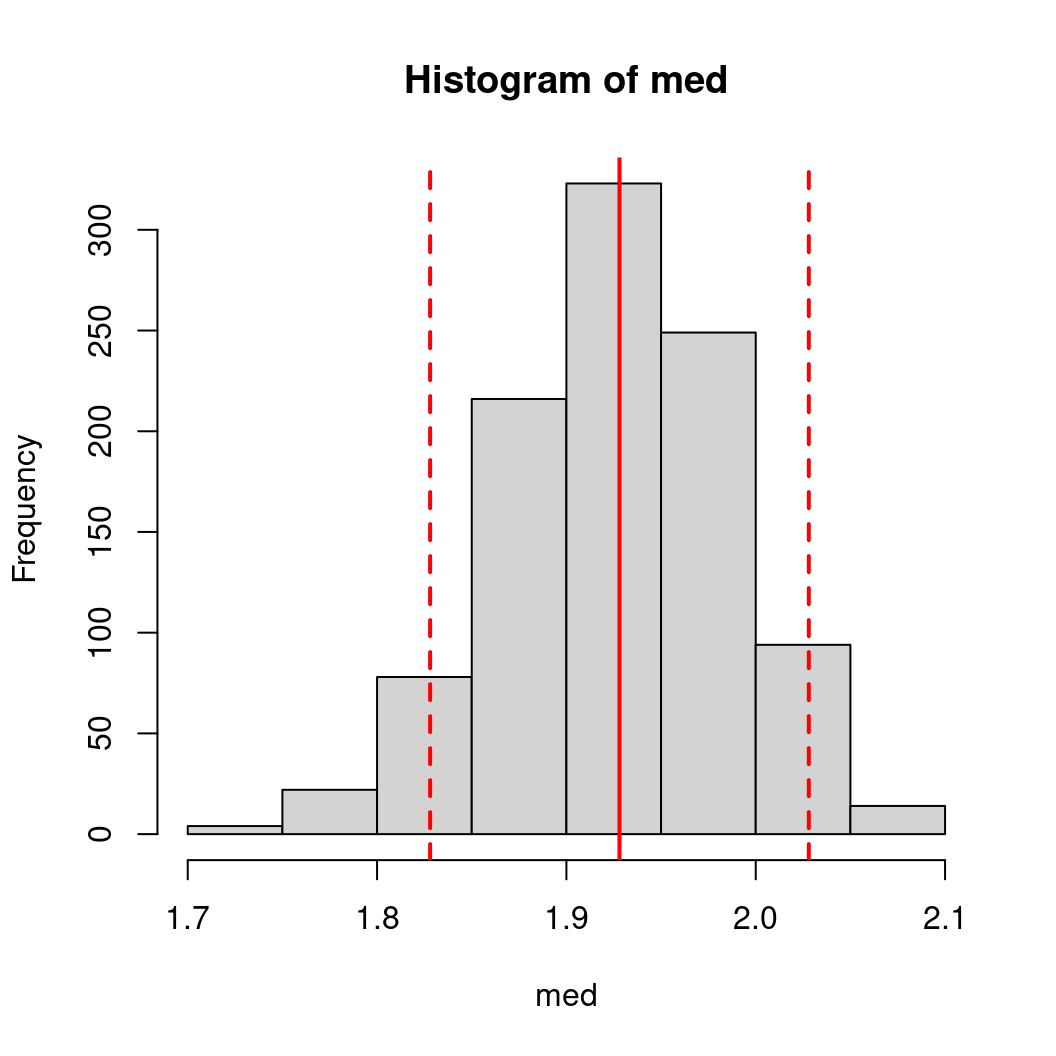
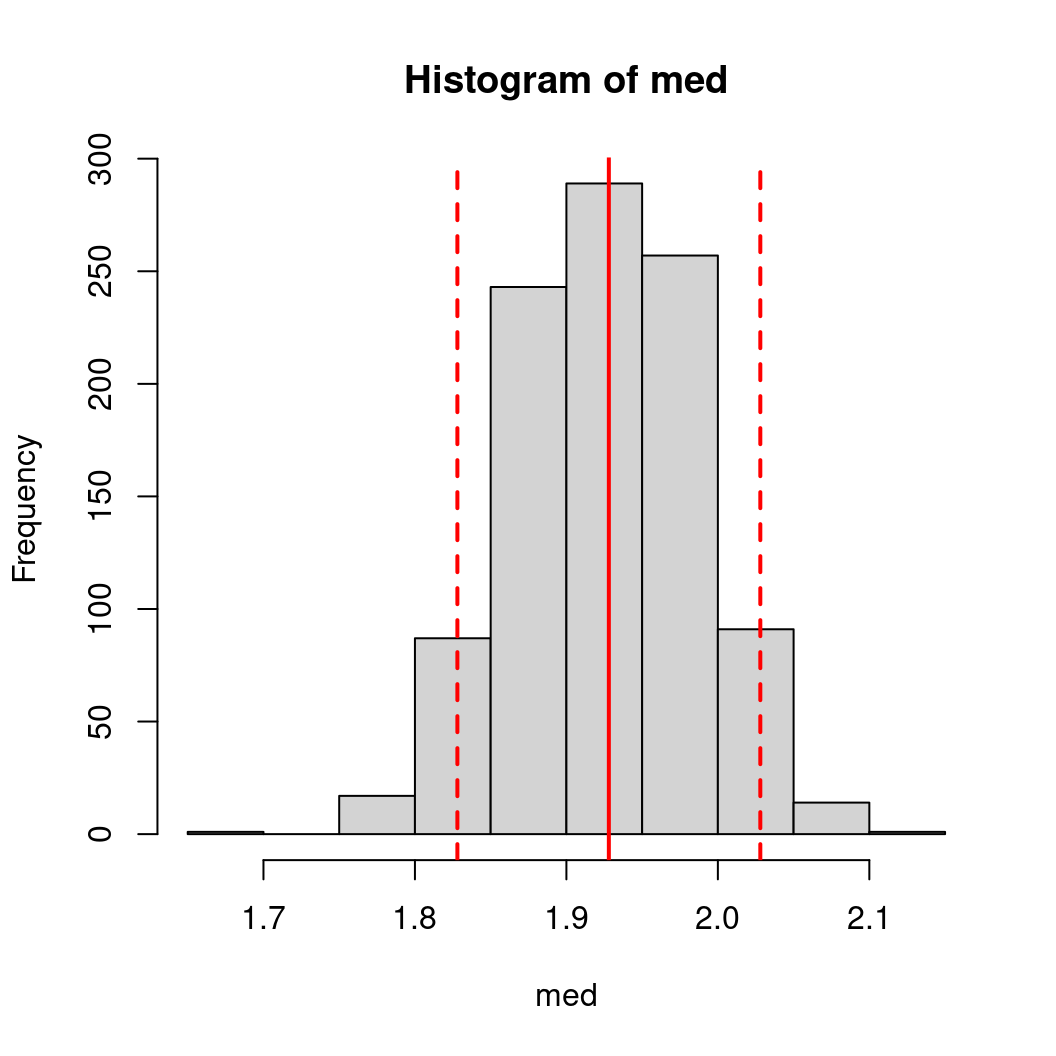
v060.1
correções

diff --git a/U4_inferencia/inferencia.html b/U4_inferencia/inferencia.html
@@ -726,7 +726,7 @@ Agora, derivando <span class="math inline">\(F_Y(y)\)</span>, obtemos
 <p><img data-src="inferencia_files/figure-revealjs/unnamed-chunk-1-1.png" width="528"></p>
 </div>
 <div class="cell-output cell-output-stdout">
-<pre><code>P[Med. Amost. ∈ (Med. Pop. ± 0.1)] ≈ 0.894</code></pre>
+<pre><code>P[Med. Amost. ∈ (Med. Pop. ± 0.1)] ≈ 0.908</code></pre>
 </div>
 </div>
 </div>
@@ -768,7 +768,7 @@ Agora, derivando <span class="math inline">\(F_Y(y)\)</span>, obtemos
 <p><img data-src="inferencia_files/figure-revealjs/unnamed-chunk-2-1.png" width="528"></p>
 </div>
 <div class="cell-output cell-output-stdout">
-<pre><code>P[Med. Amost. ∈ (Med. Pop. ± 0.1)] ≈ 0.983</code></pre>
+<pre><code>P[Med. Amost. ∈ (Med. Pop. ± 0.1)] ≈ 0.979</code></pre>
 </div>
 </div>
 </div>
@@ -1220,7 +1220,7 @@ Temos que
 <table>
 <tbody><tr style="border-bottom:none;text-align:center;">
 <td>
-<span class="math inline">\(E(\hat{\mu}_1) = E[\frac{n-1}{n}\bar{X}_{n-1} + \frac{1}{n}X_n] = \frac{n-1}{n}E(\bar{X}_{n-1}) + \frac{1}{n}E(X_n) = \frac{n-1}{n}\mu + \frac{1}{n}\mu = \mu.\)</span>
+<span class="math inline">\(E(\hat{\mu}_1) = E\left[\frac{n-1}{n}\bar{X}_{n-1} + \frac{1}{n}X_n\right] = \frac{n-1}{n}E(\bar{X}_{n-1}) + \frac{1}{n}E(X_n) = \frac{n-1}{n}\mu + \frac{1}{n}\mu = \mu.\)</span>
 </td>
 </tr>
 
@@ -1232,7 +1232,7 @@ Temos que
 <table>
 <tbody><tr style="border-bottom:none;text-align:center;">
 <td>
-<span class="math inline">\(E(\hat{\mu}_2) = E[\frac{\bar{X}_{n-1} + X_n}{2}] = \frac{E(\bar{X}_{n-1}) + E(X_n)}{2} = \frac{\mu + \mu}{2} = \mu.\)</span>
+<span class="math inline">\(E(\hat{\mu}_2) = E\left[\frac{\bar{X}_{n-1} + X_n}{2}\right] = \frac{E(\bar{X}_{n-1}) + E(X_n)}{2} = \frac{\mu + \mu}{2} = \mu.\)</span>
 </td>
 </tr>
 
@@ -1330,7 +1330,7 @@ Temos que
 <div class="callout callout-caution no-icon callout-titled callout-style-default">
 <div class="callout-body">
 <div class="callout-title">
-<p><strong>Observação</strong></p>
+<p><strong>Observações</strong></p>
 </div>
 <div class="callout-content">
 <ul>
@@ -1341,6 +1341,7 @@ Temos que
 </div>
 </div>
 </div>
+<div class="fragment">
 <div class="callout callout-note no-icon callout-titled callout-style-default">
 <div class="callout-body">
 <div class="callout-title">
@@ -1351,6 +1352,8 @@ Temos que
 </div>
 </div>
 </div>
+</div>
+<div class="fragment">
 <div class="callout callout-note no-icon callout-titled callout-style-default">
 <div class="callout-body">
 <div class="callout-title">
@@ -1358,6 +1361,7 @@ Temos que
 </div>
 <div class="callout-content">
 <p>Sejam <span class="math inline">\(\hat{\theta}_1\)</span> e <span class="math inline">\(\hat{\theta}_2\)</span> estimadores não viesados de <span class="math inline">\(\theta\)</span>. Dizemos que <span class="math inline">\(\hat{\theta}_1\)</span> é mais eficiente que <span class="math inline">\(\hat{\theta}_2\)</span> se <span class="math inline">\(EP(\hat{\theta}_1) &lt; EP(\hat{\theta}_2)\)</span>.</p>
+</div>
 </div>
 </div>
 </div>
@@ -1537,21 +1541,27 @@ Seja <span class="math inline">\(\hat{\theta}\)</span> um estimador do parâmetr
 </div>
 </div>
 </div>
+<div class="fragment">
 <div class="callout callout-caution no-icon callout-titled callout-style-default">
 <div class="callout-body">
 <div class="callout-title">
 <p><strong>Observação</strong></p>
 </div>
 <div class="callout-content">
+<div>
 <ol type="1">
-<li>A definição acima implica que <span class="math inline">\(\hat{\theta}\)</span> é consistente se seu vício e sua variância tendem a 0;</li>
-<li>Em poucas palavras, quando um estimador é consistente suas estimativas tendem a ser próximas do verdadeiro valor do parâmetro</li>
+<li class="fragment">A definição acima implica que <span class="math inline">\(\hat{\theta}\)</span> é consistente se seu vício e sua variância tendem a 0;</li>
+<li class="fragment">Em poucas palavras, quando um estimador é consistente suas estimativas tendem a ser próximas do verdadeiro valor do parâmetro</li>
 </ol>
 </div>
 </div>
 </div>
+</div>
+</div>
+<div class="fragment">
 <div style="border-style: solid; border-width: 3px; padding-top: 0px; padding-bottom: 0px; padding-right: 12px; padding-left: 12px; font-size:70%;">
 <p><strong>Exemplo 5 (cont.):</strong> Como <span class="math inline">\({\displaystyle \lim_{n\to\infty} EQM(S^2) = \lim_{n\to\infty} EQM(\hat\sigma^2) = 0}\)</span>, ambos são consistentes para <span class="math inline">\(\sigma^2\)</span>.</p>
+</div>
 </div>
 </section>
 <section id="estimação-pontual-consistência-1" class="slide level2 unnumbered unlisted">
@@ -1595,17 +1605,22 @@ Ilustração da distribuição amostral de um estimador consistente com
 </div>
 <div class="callout-content">
 <p>Em alguns casos, o estimador é escolhido por seu apelo intuitivo. Por exemplo, é natural usar</p>
+<div>
 <ul>
-<li><span class="math inline">\(\bar{X}\)</span> (média amostral) para estimar <span class="math inline">\(\mu\)</span> (média populacional);</li>
-<li><span class="math inline">\(\hat{p}\)</span> (proporção amostral) para estimar <span class="math inline">\(p\)</span> (proporção populacional);</li>
-<li><span class="math inline">\(S^2\)</span> (variância amostral) para estimar <span class="math inline">\(\sigma^2\)</span> (variância populacional).</li>
+<li class="fragment"><span class="math inline">\(\bar{X}\)</span> (média amostral) para estimar <span class="math inline">\(\mu\)</span> (média populacional);</li>
+<li class="fragment"><span class="math inline">\(\hat{p}\)</span> (proporção amostral) para estimar <span class="math inline">\(p\)</span> (proporção populacional);</li>
+<li class="fragment"><span class="math inline">\(S^2\)</span> (variância amostral) para estimar <span class="math inline">\(\sigma^2\)</span> (variância populacional).</li>
 </ul>
 </div>
 </div>
 </div>
+</div>
+<div class="fragment">
 <div style="border-style: solid; border-width: 3px; padding-top: 0px; padding-bottom: 0px; padding-right: 12px; padding-left: 12px; font-size:70%;">
 <p><strong>Exemplo 6:</strong> Qual o estimador mais apropriado para a taxa <span class="math inline">\(\lambda\)</span> de uma população <span class="math inline">\(X \sim \text{Exp}(\lambda)\)</span>?</p>
 </div>
+</div>
+<div class="fragment">
 <div class="callout callout-caution no-icon callout-titled callout-style-default">
 <div class="callout-body">
 <div class="callout-title">
@@ -1613,6 +1628,7 @@ Ilustração da distribuição amostral de um estimador consistente com
 </div>
 <div class="callout-content">
 <p>No Exemplo 6, não há um candidato natural para <span class="math inline">\(\hat\lambda\)</span>. Veremos dois métodos de obtenção de estimadores: o <strong>método dos momentos</strong>; e o <strong>método da máxima verossimilhança</strong>.</p>
+</div>
 </div>
 </div>
 </div>
@@ -1629,6 +1645,7 @@ Ilustração da distribuição amostral de um estimador consistente com
 </div>
 </div>
 </div>
+<div class="fragment">
 <div class="callout callout-note no-icon callout-titled callout-style-default">
 <div class="callout-body">
 <div class="callout-title">
@@ -1642,6 +1659,8 @@ Ilustração da distribuição amostral de um estimador consistente com
 </div>
 </div>
 </div>
+</div>
+<div class="fragment">
 <div class="callout callout-caution no-icon callout-titled callout-style-default">
 <div class="callout-body">
 <div class="callout-title">
@@ -1649,6 +1668,7 @@ Ilustração da distribuição amostral de um estimador consistente com
 </div>
 <div class="callout-content">
 <p>Note que <span class="math inline">\(\mu^{(k)}=\mu^{(k)}(\theta)\)</span></p>
+</div>
 </div>
 </div>
 </div>
@@ -1671,6 +1691,7 @@ Ilustração da distribuição amostral de um estimador consistente com
 </div>
 </div>
 </div>
+<div class="fragment">
 <div class="callout callout-caution no-icon callout-titled callout-style-default">
 <div class="callout-body">
 <div class="callout-title">
@@ -1681,12 +1702,14 @@ Ilustração da distribuição amostral de um estimador consistente com
 </div>
 </div>
 </div>
+</div>
 </section>
 <section id="métodos-de-obtenção-de-estimadores-3" class="slide level2 unnumbered unlisted">
 <h2>2.2 Métodos de Obtenção de Estimadores</h2>
 <div style="border-style: solid; border-width: 3px; padding-top: 0px; padding-bottom: 0px; padding-right: 12px; padding-left: 12px; font-size:70%; margin-bottom:24px;">
 <p><strong>Exemplo 6 (cont.):</strong> Temos que, para a população <span class="math inline">\(X \sim \text{Exp}(\lambda)\)</span>, o momento populacional de ordem 1 é <span class="math inline">\(\mu^{(1)} = E(X) = \frac{1}{\lambda}\)</span>. Como o momento amostral de ordem 1 é <span class="math inline">\(\hat\mu^{(1)} = \bar{X}\)</span>, o EMM de <span class="math inline">\(\lambda\)</span> é o valor <span class="math inline">\(\hat\lambda_{\text{MM}}\)</span> tal que <span class="math inline">\(\frac{1}{\hat\lambda_{\text{MM}}} = \bar{X}\)</span>. Logo, <span class="math inline">\(\hat\lambda_{\text{MM}} = \frac{1}{\bar{X}}\)</span>.</p>
 </div>
+<div class="fragment">
 <div style="border-style: solid; border-width: 3px; padding-top: 12px; padding-bottom: 12px; padding-right: 12px; padding-left: 12px; font-size:70%;">
 <strong>Exemplo 7:</strong> Se a população for <span class="math inline">\(X\sim \text{N}(\mu,\sigma^2)\)</span>, então <span class="math inline">\(\mu^{(1)} = E(X) = \mu\)</span> e <span class="math inline">\(\mu^{(2)} = E(X^2) = \sigma^2 + \mu^2\)</span>. Como <span class="math inline">\(\hat\mu^{(1)} = \bar{X}\)</span> e <span class="math inline">\(\hat\mu^{(2)} = \frac{1}{n}\sum_i X_i^2\)</span>, os EMM’s de <span class="math inline">\(\mu\)</span> e <span class="math inline">\(\sigma\)</span> são dados, respectivamente, por
 
@@ -1705,6 +1728,8 @@ e
 
 </tbody></table>
 </div>
+</div>
+<div class="fragment">
 <div class="callout callout-tip no-icon callout-titled callout-style-default">
 <div class="callout-body">
 <div class="callout-title">
@@ -1712,6 +1737,7 @@ e
 </div>
 <div class="callout-content">
 <p>Encontre o EMM do parâmetro <span class="math inline">\(\theta\)</span> se a população <span class="math inline">\(X\)</span> tem fdp <span class="math inline">\(f(x)=\frac{\theta}{x^{\theta+1}}\)</span>, <span class="math inline">\(x&gt;1\)</span>.</p>
+</div>
 </div>
 </div>
 </div>
@@ -1747,6 +1773,7 @@ Seja <span class="math inline">\(X_1,\ldots,X_n\)</span> aa de uma vac <span cla
 </div>
 </div>
 </div>
+<div class="fragment">
 <div class="callout callout-caution no-icon callout-titled callout-style-default">
 <div class="callout-body">
 <div class="callout-title">
@@ -1757,6 +1784,7 @@ Seja <span class="math inline">\(X_1,\ldots,X_n\)</span> aa de uma vac <span cla
 <li>A função de verossimilhança tem a mesma definição de fmp conjunta (se a população <span class="math inline">\(X\)</span> é discreta) ou fdp conjunta (se a população <span class="math inline">\(X\)</span> é contínua), mas é função de <span class="math inline">\(\theta\)</span> e não de <span class="math inline">\(x_1, \ldots, x_n\)</span>;</li>
 <li><span class="math inline">\(L(\theta; x_1, \ldots, x_n)\)</span> mede a <strong>plausabilidade</strong> de <span class="math inline">\(\theta\)</span> com respeito a amostra observada <span class="math inline">\(x_1, \ldots, x_n\)</span>.</li>
 </ol>
+</div>
 </div>
 </div>
 </div>
@@ -1782,15 +1810,17 @@ O Estimador de Máxima Verossimilhança (EMV) de <span class="math inline">\(\th
 </div>
 </div>
 </div>
+<div class="fragment">
 <div class="callout callout-caution no-icon callout-titled callout-style-default">
 <div class="callout-body">
 <div class="callout-title">
 <p><strong>Observações</strong></p>
 </div>
 <div class="callout-content">
+<div>
 <ol type="1">
-<li>No caso discreto, pela independência, temos <span class="math inline">\(L(\theta;x_1,\ldots,x_n)= P(X_1=x_1,\ldots,X_n=x_n|\theta),\)</span> de modo que <span class="math inline">\(\hat{\theta}_{\text{MV}}\)</span> maximiza essa probabilidade, tornando a amostra <span class="math inline">\(x_1,\ldots,x_n\)</span> mais <strong>plausível</strong> ou <strong>verossímil</strong>;</li>
-<li>Se <span class="math inline">\(L\)</span> é diferenciável em <span class="math inline">\(\theta\)</span>, o EMV é o valor <span class="math inline">\(\hat{\theta}_{\text{MV}}\)</span> que satisfaz:
+<li class="fragment">No caso discreto, pela independência, temos <span class="math inline">\(L(\theta;x_1,\ldots,x_n)= P(X_1=x_1,\ldots,X_n=x_n|\theta),\)</span> de modo que <span class="math inline">\(\hat{\theta}_{\text{MV}}\)</span> maximiza essa probabilidade, tornando a amostra <span class="math inline">\(x_1,\ldots,x_n\)</span> mais <strong>plausível</strong> ou <strong>verossímil</strong>;</li>
+<li class="fragment">Se <span class="math inline">\(L\)</span> é diferenciável em <span class="math inline">\(\theta\)</span>, o EMV é o valor <span class="math inline">\(\hat{\theta}_{\text{MV}}\)</span> que satisfaz:
 
 <table>
 <tbody><tr style="border-bottom:none;text-align:center;">
@@ -1801,8 +1831,10 @@ O Estimador de Máxima Verossimilhança (EMV) de <span class="math inline">\(\th
 
 </tbody></table>
 em que <span class="math inline">\(\ell(\theta) = \log\left[L(\theta;x_1,\ldots,x_n) \right]\)</span> é a <span style="color:red;"><strong>log-verossimilhança</strong></span>, desde que <span class="math inline">\(\hat{\theta}_{\text{MV}}\)</span> seja ponto de máximo;</li>
-<li>Sob algumas suposições de regularidade, é possível mostrar que o EMV é consistente.</li>
+<li class="fragment">Sob algumas suposições de regularidade, é possível mostrar que o EMV é consistente.</li>
 </ol>
+</div>
+</div>
 </div>
 </div>
 </div>
@@ -1810,7 +1842,7 @@ em que <span class="math inline">\(\ell(\theta) = \log\left[L(\theta;x_1,\ldots,
 <section id="métodos-de-obtenção-de-estimadores-6" class="slide level2 unnumbered unlisted">
 <h2>2.2 Métodos de Obtenção de Estimadores</h2>
 <div style="border-style: solid; border-width: 3px; padding-top: 12px; padding-bottom: 0px; padding-right: 12px; padding-left: 12px; font-size:70%; margin-bottom:24px;">
-<strong>Exemplo 6 (cont.):</strong> A função de verossimilhança se a população <span class="math inline">\(X\sim \text{Exp}(\lambda)\)</span> é
+<strong>Exemplo 6 (cont.):</strong> Se a população <span class="math inline">\(X\sim \text{Exp}(\lambda)\)</span>, a função de verossimilhança é
 
 <table>
 <tbody><tr style="border-bottom:none;text-align:center;">
@@ -1820,8 +1852,11 @@ em que <span class="math inline">\(\ell(\theta) = \log\left[L(\theta;x_1,\ldots,
 </tr>
 
 </tbody></table>
-<p>Assim, <span class="math inline">\(\ell(\lambda) = n\log(\lambda)-\lambda n \bar{x}\)</span> e <span class="math inline">\(\frac{\partial\ell(\lambda)}{\partial\lambda} = \frac{n}{\lambda} - n\bar{x}\)</span>. Como <span class="math inline">\(\hat\lambda_{\text{MV}}\)</span> satisfaz <span class="math inline">\(\frac{n}{\hat\lambda_{\text{MV}}} - n\bar{x} = 0\)</span>, temos <span class="math inline">\(\hat\lambda_{\text{MV}} = \frac{1}{\bar{X}}\)</span>.</p>
+<div class="fragment">
+<p>Assim, <span class="math inline">\(\ell(\lambda) = n\log(\lambda)-\lambda n \bar{x}\)</span> e <span class="math inline">\(\frac{\partial\ell(\lambda)}{\partial\lambda} = \frac{n}{\lambda} - n\bar{x}\)</span>. <span class="fragment">Como <span class="math inline">\(\hat\lambda_{\text{MV}}\)</span> satisfaz <span class="math inline">\(\frac{n}{\hat\lambda_{\text{MV}}} - n\bar{x} = 0\)</span>, temos <span class="math inline">\(\hat\lambda_{\text{MV}} = \frac{1}{\bar{X}}\)</span>.</span></p>
 </div>
+</div>
+<div class="fragment">
 <div style="border-style: solid; border-width: 3px; padding-top: 12px; padding-bottom: 0px; padding-right: 12px; padding-left: 12px; font-size:70%;">
 <strong>Exemplo 7 (cont.):</strong> Vamos determinar o EMV de <span class="math inline">\((\mu, \sigma)\)</span>. Podemos mostrar que a log-verossimilhança é
 
@@ -1833,6 +1868,7 @@ em que <span class="math inline">\(\ell(\theta) = \log\left[L(\theta;x_1,\ldots,
 </tr>
 
 </tbody></table>
+<div class="fragment">
 Assim,
 
 <table>
@@ -1849,6 +1885,8 @@ e
 </tr>
 
 </tbody></table>
+</div>
+<div class="fragment">
 Logo, os EMV’s <span class="math inline">\(\hat\mu_{\text{MV}}\)</span> e <span class="math inline">\(\hat\sigma_{\text{MV}}\)</span> devem satisfazer
 
 <table>
@@ -1865,7 +1903,9 @@ e
 </tr>
 
 </tbody></table>
-<p>o que fornece <span class="math inline">\(\hat\mu_{\text{MV}} = \bar{X}\)</span> e <span class="math inline">\(\hat\sigma_{\text{MV}} = \left[\frac{1}{n}\sum_i(X_i - \hat\mu_{\text{MV}})^2\right]^{1/2}\)</span>.</p>
+<p><span class="fragment">o que fornece <span class="math inline">\(\hat\mu_{\text{MV}} = \bar{X}\)</span> e <span class="math inline">\(\hat\sigma_{\text{MV}} = \left[\frac{1}{n}\sum_i(X_i - \hat\mu_{\text{MV}})^2\right]^{1/2}\)</span>.</span></p>
+</div>
+</div>
 </div>
 </section>
 <section id="métodos-de-obtenção-de-estimadores-7" class="slide level2 unnumbered unlisted">
@@ -1880,15 +1920,17 @@ e
 </div>
 </div>
 </div>
+<div class="fragment">
 <div class="callout callout-caution no-icon callout-titled callout-style-default">
 <div class="callout-body">
 <div class="callout-title">
 <p><strong>Observações</strong></p>
 </div>
 <div class="callout-content">
+<div>
 <ol type="1">
-<li>Em alguns casos, não podemos realizar analiticamente a maximização de <span class="math inline">\(L(\theta; x_1, \ldots, x_n)\)</span>, ou equivalentemente de <span class="math inline">\(\ell(\theta)\)</span>;</li>
-<li>Nesses casos, podemos recorrer é métodos numéricos. Por exemplo, podemos utilizar o algoritmo de Newton-Raphson para encontrar as raízes
+<li class="fragment">Em alguns casos, não podemos realizar analiticamente a maximização de <span class="math inline">\(L(\theta; x_1, \ldots, x_n)\)</span>, ou equivalentemente de <span class="math inline">\(\ell(\theta)\)</span>;</li>
+<li class="fragment">Nesses casos, podemos recorrer é métodos numéricos. Por exemplo, podemos utilizar o algoritmo de Newton-Raphson para encontrar as raízes
 
 <table>
 <tbody><tr style="border-bottom:none;text-align:center;">
@@ -1899,6 +1941,8 @@ e
 
 </tbody></table></li>
 </ol>
+</div>
+</div>
 </div>
 </div>
 </div>
